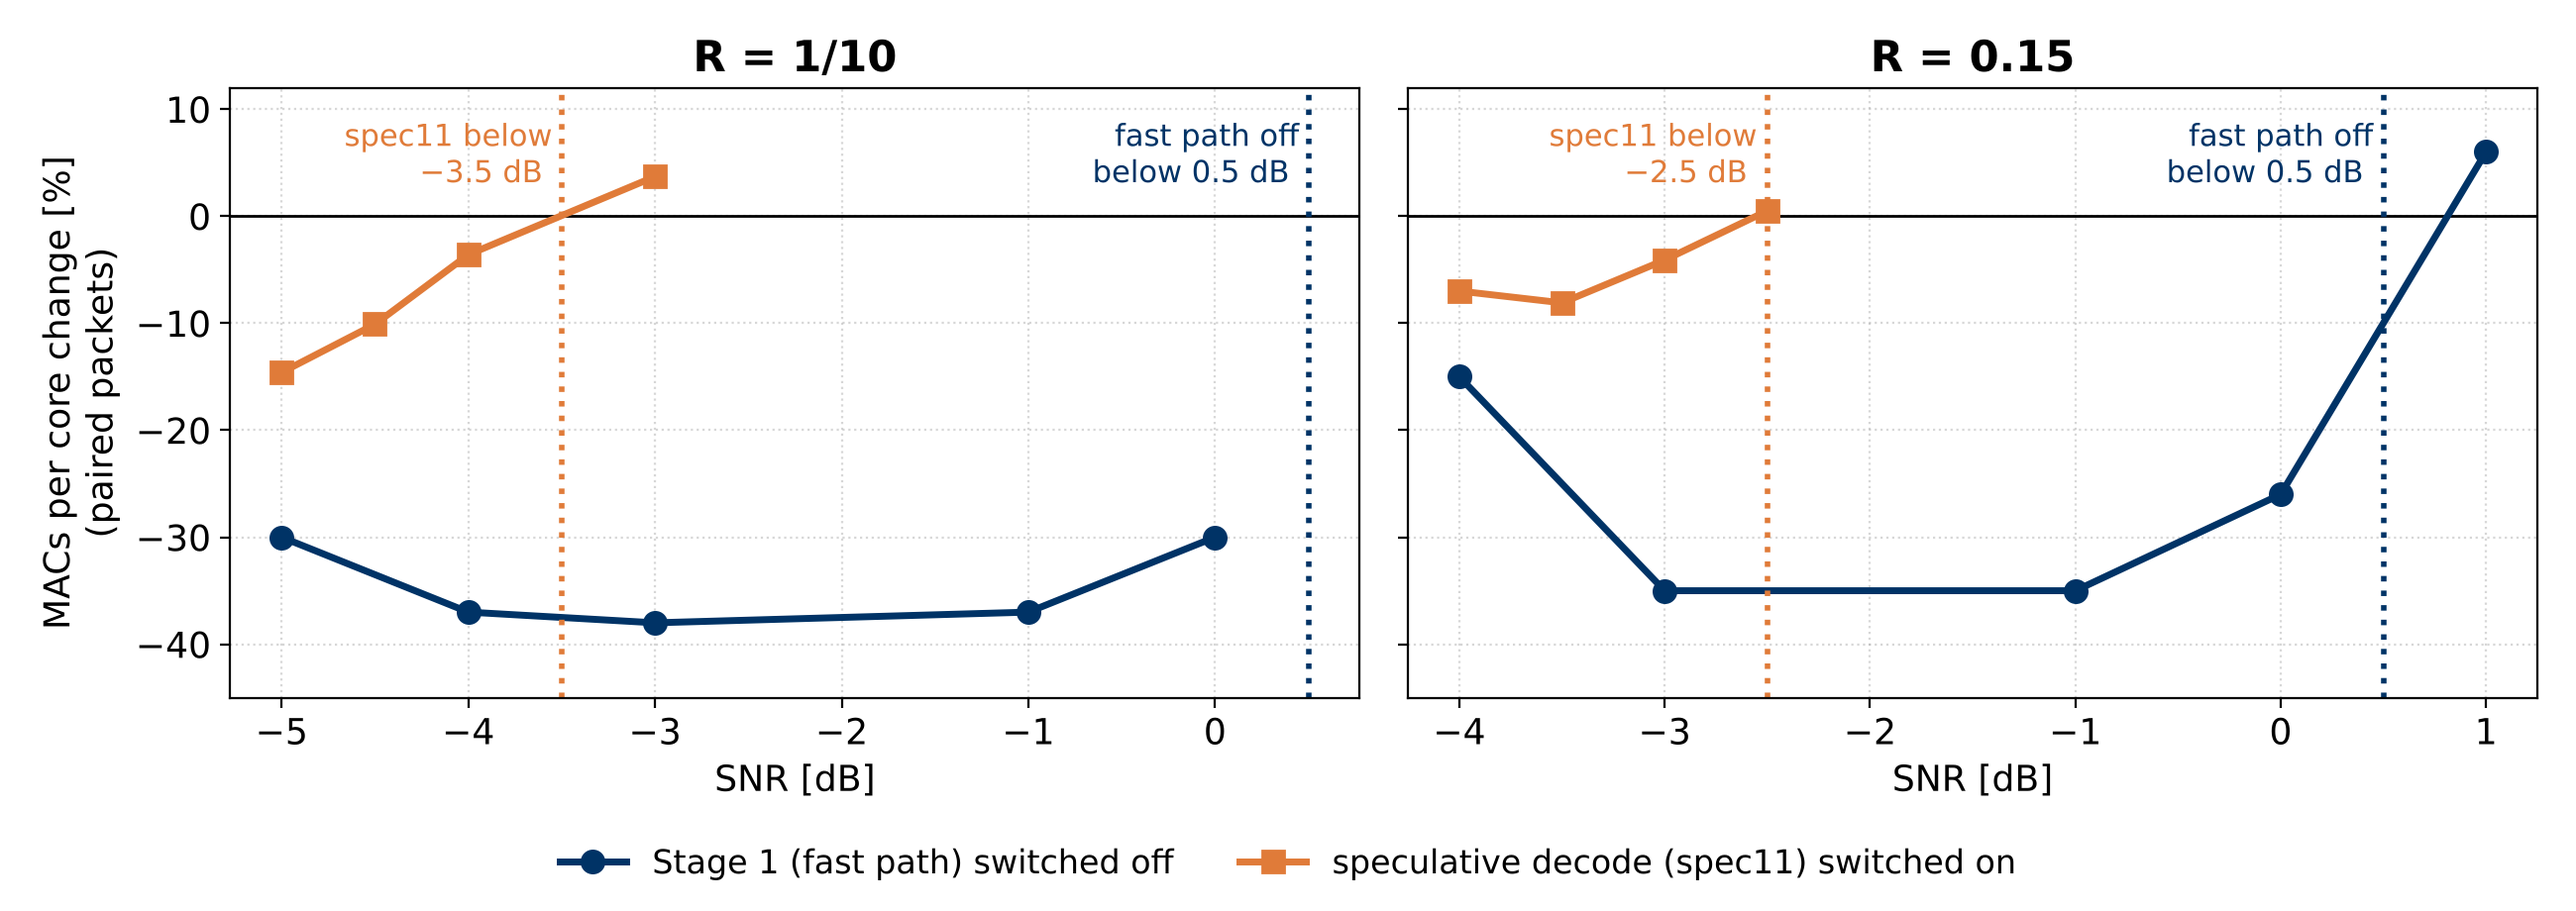
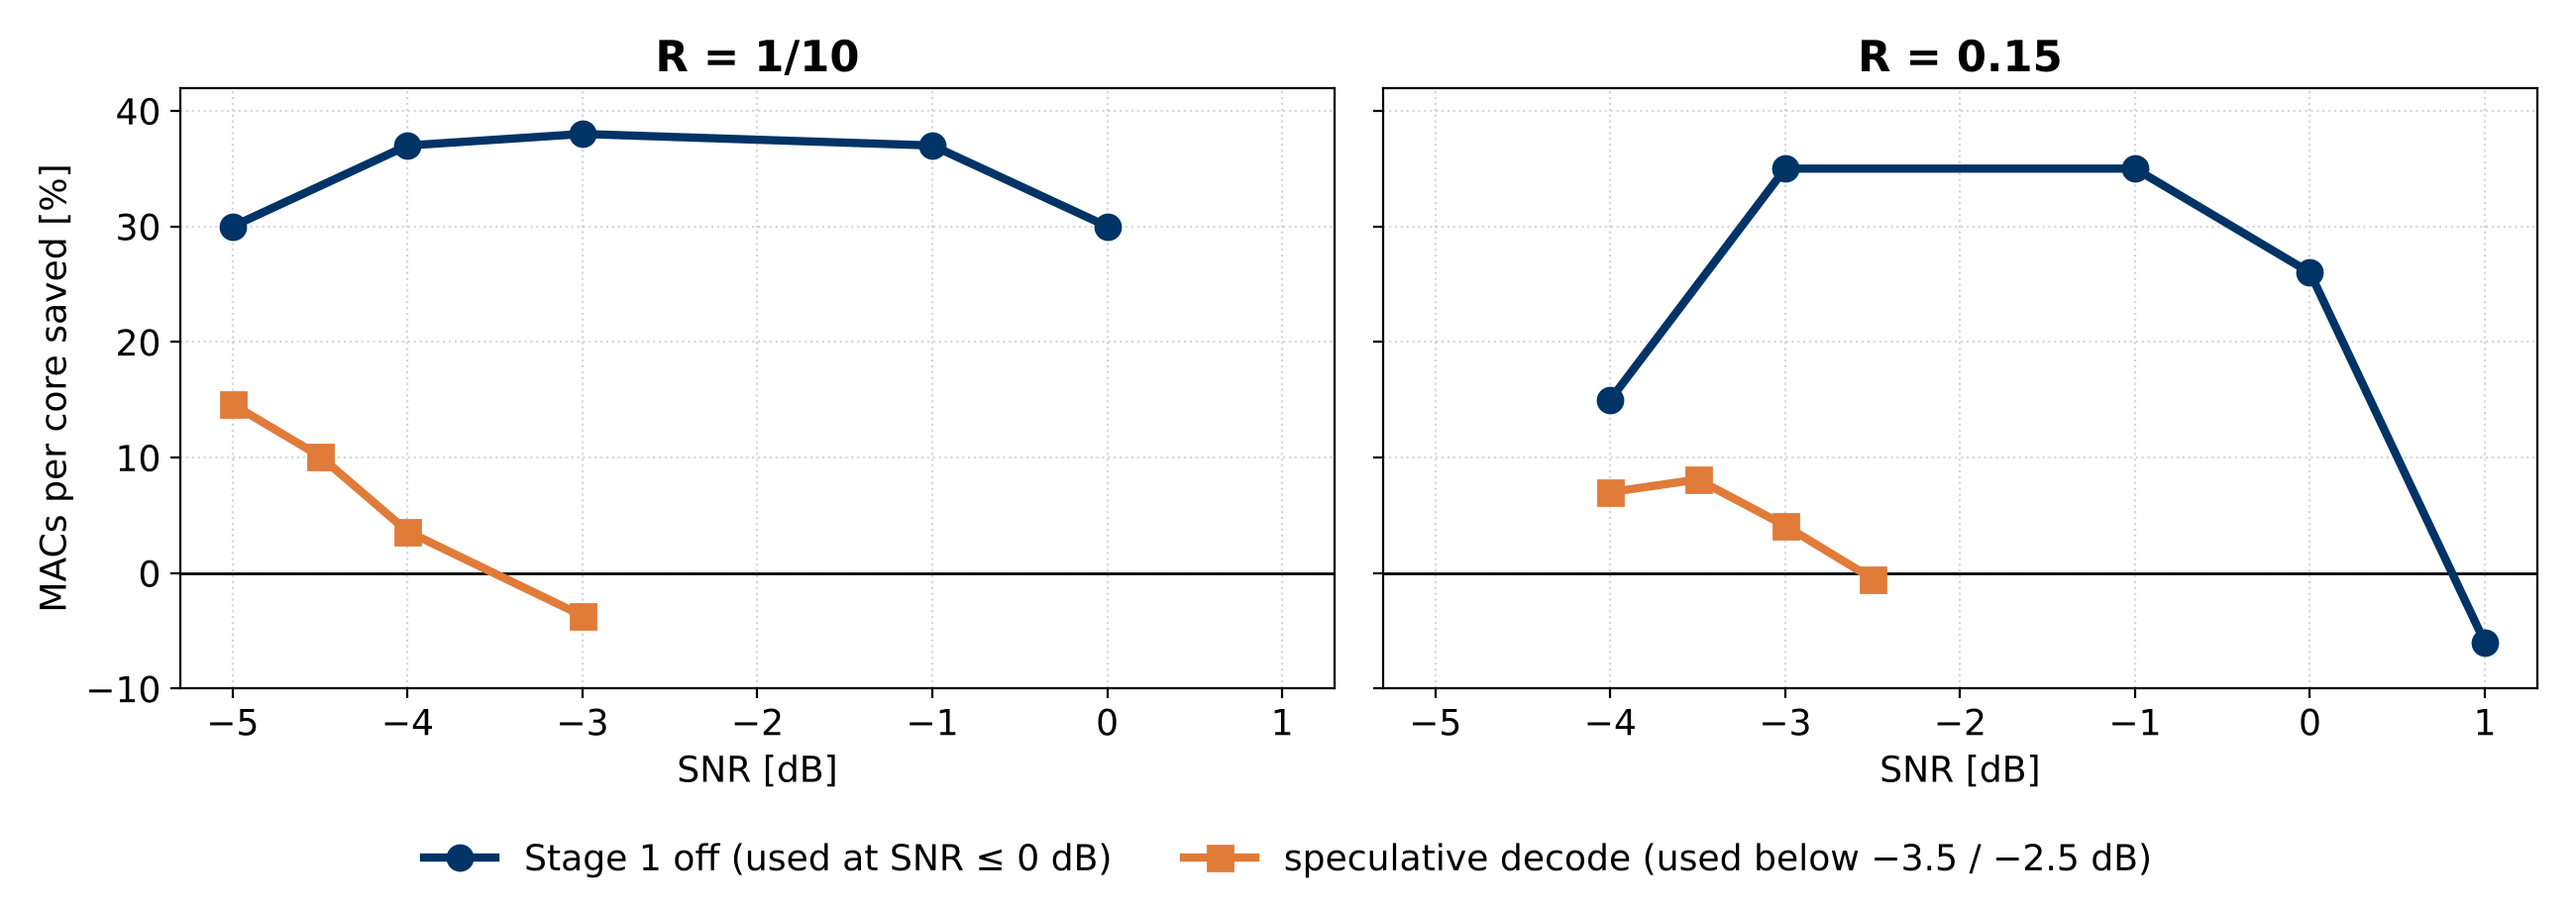
Slides: simpler testing-receiver and F5 plots; DVB-RCS2 and VDE-SAT algorithm figures and equations
Claude-Session: https://claude.ai/code/session_01Uut9iw5SnA6a3eeYDv3vkc

diff --git a/slides_eq/plot_testing_changes.py b/slides_eq/plot_testing_changes.py
@@ -31,86 +31,61 @@ def tr_gates():
     fig, axs = plt.subplots(1, 2, figsize=(13, 4.6), sharey=True)
     for ax, r in zip(axs, ("1/10", "0.15")):
         ax.axhline(0, color="k", lw=1)
-        ax.plot(*FP[r], "o-", color=NAVY, lw=2.5, ms=8, label="Stage 1 (fast path) switched off")
-        ax.plot(*SP[r], "s-", color=ORANGE, lw=2.5, ms=8, label="speculative decode (spec11) switched on")
-        ax.axvline(0.5, color=NAVY, ls=":", lw=2)
-        ax.axvline(GATE_S[r], color=ORANGE, ls=":", lw=2)
-        ax.text(0.45, 9, "fast path off\nbelow 0.5 dB ", ha="right", va="top", color=NAVY, fontsize=11)
-        ax.text(GATE_S[r] - 0.05, 9, f"spec11 below\n{GATE_S[r]:g} dB ".replace("-", "−"), ha="right", va="top",
-                color=ORANGE, fontsize=11)
+        ax.plot(FP[r][0], [-v for v in FP[r][1]], "o-", color=NAVY, lw=3, ms=9, label="Stage 1 off (used at SNR ≤ 0 dB)")
+        ax.plot(SP[r][0], [-v for v in SP[r][1]], "s-", color=ORANGE, lw=3, ms=9,
+                label="speculative decode (used below −3.5 / −2.5 dB)")
+        ax.set_xlim(-5.3, 1.3)
         ax.set_title(f"R = {r}", fontweight="bold")
         ax.set_xlabel("SNR [dB]")
-        ax.set_ylim(-45, 12)
+        ax.set_ylim(-10, 42)
         ax.grid(True, ls=":", alpha=0.5)
-    axs[0].set_ylabel("MACs per core change [%]\n(paired packets)")
+    axs[0].set_ylabel("MACs per core saved [%]")
     h, l = axs[0].get_legend_handles_labels()
-    fig.legend(h, l, loc="lower center", ncol=2, fontsize=12, frameon=False)
-    fig.tight_layout(rect=(0, 0.08, 1, 1))
+    fig.legend(h, l, loc="lower center", ncol=2, fontsize=13, frameon=False)
+    fig.tight_layout(rect=(0, 0.09, 1, 1))
     fig.savefig(os.path.join(HERE, "tr_gates.png"), dpi=200, facecolor="white")
 
 
 def f5_thr():
     R = {r["point"]: r for r in json.load(open(os.path.join(HERE, "data", "fz_f5_17b16ea.json")))}
-    fig, (a, b) = plt.subplots(1, 2, figsize=(13, 4.8))
+    fig, a = plt.subplots(figsize=(9, 4.8))
     ck = R["2/5 0.5 dB"]["groups"]["f"]["m"]["psn"]["ck"]
     q = [c["q"] for c in ck]
-    a.plot(q, [c["med_wrong"] for c in ck], "s-", color=RED, lw=2.5, ms=7, label="wrong decodes (median)")
-    a.plot(q, [c["med_right"] for c in ck], "o-", color=NAVY, lw=2.5, ms=7, label="right decodes (median)")
-    a.plot(q, [c["th"][0]["t"] for c in ck], "--", color=ORANGE, lw=2.5, label="threshold t: 0 right lost")
-    a.set_xlabel("share q of the frozen bits seen")
+    a.plot(q, [c["med_wrong"] for c in ck], "s-", color=RED, lw=3, ms=8, label="decodes at a wrong hypothesis (median ψ)")
+    a.plot(q, [c["med_right"] for c in ck], "o-", color=NAVY, lw=3, ms=8, label="decodes at the right hypothesis (median ψ)")
+    c7 = [c for c in ck if abs(c["q"] - 0.7) < 1e-9][0]
+    a.plot([0.7], [c7["th"][0]["t"]], "*", color=ORANGE, ms=22, label="chosen: q = 0.7, t = 0.774 (run.py FZS_T)")
+    a.axvline(0.7, color=ORANGE, ls=":", lw=2)
+    a.set_xlabel("share q of the frozen bits seen when ψ is checked")
     a.set_ylabel("ψ: mean frozen-bit penalty")
-    a.set_title("R = 2/5, 0.5 dB: ψ separates", fontweight="bold")
+    a.set_title("R = 2/5, 0.5 dB (decode dumps)", fontweight="bold")
     a.grid(True, ls=":", alpha=0.5)
-    a.legend(fontsize=11)
-    for pt, col, mk in (("2/5 0.5 dB", NAVY, "o"), ("1/2 2 dB", GREEN, "^"), ("0.15 -4 dB", GREY, "s"), ("1/10 -5 dB", ORANGE, "v")):
-        c = R[pt]["groups"]["f"]["m"]["psn"]["ck"]
-        lab = pt.replace("-", "−")
-        b.plot([x["q"] for x in c], [100 * x["th"][0]["save_core"] for x in c], marker=mk, color=col, lw=2.3, ms=7,
-               label=f"R = {lab}")
-    b.axvline(0.7, color="k", ls=":", lw=1.5)
-    b.text(0.71, 9.5, "chosen q = 0.7\n(R = 2/5, 1/2)", fontsize=11, va="bottom")
-    b.set_xlabel("share q of the frozen bits seen")
-    b.set_ylabel("MACs per core saved [%]")
-    b.set_title("Saving at the 0-loss threshold", fontweight="bold")
-    b.set_ylim(bottom=0)
-    b.grid(True, ls=":", alpha=0.5)
-    b.legend(fontsize=11, loc="upper left")
+    a.legend(fontsize=12, loc="lower left")
     fig.tight_layout()
     fig.savefig(os.path.join(HERE, "f5_thr.png"), dpi=200, facecolor="white")
 
 
 def f5_save():
     D = json.load(open(os.path.join(HERE, "data", "f5_paired_17b16ea.json")))
-    fig, axs = plt.subplots(1, 2, figsize=(13, 4.6))
+    fig, axs = plt.subplots(1, 2, figsize=(13, 4.6), sharey=True)
     for ax, r in zip(axs, ("2/5", "1/2")):
         pts = sorted((float(s), v) for s, v in D[r].items())
-        x = [s for s, _ in pts]
-        ax.plot(x, [v["base"] / 1e6 for _, v in pts], "--", color=GREY, lw=2, label="without early stop")
-        ax.plot(x, [v["fzs"] / 1e6 for _, v in pts], "-", color=NAVY, lw=2.8, label="with F5 early stop")
-        for s, v in pts:
-            pr = v["paired"]
-            ax.plot(s, v["base"] / 1e6, "o", color=GREY, ms=8, mfc=GREY if pr else "white")
-            ax.plot(s, v["fzs"] / 1e6, "o", color=NAVY, ms=8, mfc=NAVY if pr else "white")
-            ch = 100 * (v["fzs"] / v["base"] - 1)
-            if abs(ch) >= 1:
-                ax.annotate(f"{ch:+.0f} %".replace("-", "−"), (s, v["base"] / 1e6), textcoords="offset points",
-                            xytext=(8, 6), fontsize=12, color=NAVY, fontweight="bold")
-        ax.set_yscale("log")
-        ax.minorticks_off()
-        t = [0.05, 0.1, 0.2, 0.5, 1, 2]
-        ax.set_yticks(t)
-        ax.set_yticklabels([f"{v:g}" for v in t])
-        ax.set_ylim(0.05, 2.5)
-        ax.set_xlim(min(x) - 0.15, max(x) + 0.25)
+        x = list(range(len(pts)))
+        y = [100 * (1 - v["fzs"] / v["base"]) for _, v in pts]
+        for i, ((s, v), yy) in enumerate(zip(pts, y)):
+            ax.bar(i, yy, color=NAVY if v["paired"] else "white", edgecolor=NAVY, lw=2, hatch=None if v["paired"] else "//")
+            ax.text(i, yy + 0.6, f"{yy:.0f} %", ha="center", fontsize=13, color=NAVY, fontweight="bold")
+        ax.set_xticks(x)
+        ax.set_xticklabels([f"{s:g}" for s, _ in pts])
         ax.set_title(f"R = {r}", fontweight="bold")
         ax.set_xlabel("SNR [dB]")
-        ax.grid(True, ls=":", alpha=0.5)
-    axs[0].set_ylabel("MACs per core [M]")
-    h = [plt.Line2D([], [], color=GREY, ls="--", lw=2), plt.Line2D([], [], color=NAVY, lw=2.8),
-         plt.Line2D([], [], color="k", marker="o", ls="none", ms=8), plt.Line2D([], [], color="k", marker="o", ls="none", ms=8, mfc="white")]
-    fig.legend(h, ["without early stop", "with F5 early stop", "same packets (paired)", "different packets"],
-               loc="lower center", ncol=4, fontsize=12, frameon=False)
-    fig.tight_layout(rect=(0, 0.08, 1, 1))
+        ax.set_ylim(0, 25)
+        ax.grid(True, axis="y", ls=":", alpha=0.5)
+    axs[0].set_ylabel("MACs per core saved [%]")
+    h = [plt.Rectangle((0, 0), 1, 1, color=NAVY), plt.Rectangle((0, 0), 1, 1, fc="white", ec=NAVY, hatch="//")]
+    fig.legend(h, ["same packets with and without F5", "different packets"], loc="lower center", ncol=2, fontsize=13,
+               frameon=False)
+    fig.tight_layout(rect=(0, 0.09, 1, 1))
     fig.savefig(os.path.join(HERE, "f5_save.png"), dpi=200, facecolor="white")
 
 

diff --git a/slides_eq/plot_competitor_algos.py b/slides_eq/plot_competitor_algos.py
@@ -1,0 +1,72 @@
+"""Competitor algorithm slides -> slides_eq/rcs_alg.png, vde_alg.png
+
+    python slides_eq/plot_competitor_algos.py
+
+Layouts from est4/common.py (data/layouts_est4.json: known-symbol burst positions of rcs13 and vde27). The lower panel
+is the noiseless known-symbol pattern |sum_k exp(-j 2 pi nu n_k)| / Nk (true CFO 0): where the estimator's spectrum
+X(nu) peaks, including its alias lobes. Deterministic from the layout, no simulation.
+"""
+import json
+import os
+
+import numpy as np
+import matplotlib
+
+matplotlib.use("Agg")
+import matplotlib.pyplot as plt
+
+HERE = os.path.dirname(os.path.abspath(__file__))
+L = json.load(open(os.path.join(HERE, "data", "layouts_est4.json")))
+NAVY, ORANGE, GREY, RED = "#003366", "#E07B39", "#999999", "#c8423b"
+plt.rcParams.update({"font.size": 13, "font.family": "DejaVu Sans"})
+NU = np.linspace(-0.08, 0.08, 4001)
+
+
+def pattern(idx):
+    idx = np.asarray(idx, float)
+    return np.abs(np.exp(-2j * np.pi * NU[:, None] * idx[None]).sum(1)) / len(idx)
+
+
+def strip(ax, lay, title):
+    K, k = lay["K"], np.asarray(lay["known_idx"])
+    ax.add_patch(plt.Rectangle((0, 0), K, 1, color="#e6ecf3"))
+    for n in k:
+        ax.add_patch(plt.Rectangle((n, 0), 1.6, 1, color=ORANGE))
+    ax.set_xlim(0, K)
+    ax.set_ylim(0, 1)
+    ax.set_yticks([])
+    ax.set_xlabel("symbol index in the burst")
+    ax.set_title(title, fontsize=13)
+
+
+def spectrum(ax, curves, win=None):
+    if win:
+        ax.axvspan(-win, win, color="#d8e4f0", label="step 2 search window: f_c ± 1/54")
+    for y, lab, col, lw in curves:
+        ax.plot(NU, y, color=col, lw=lw, label=lab)
+    ax.set_xlim(NU[0], NU[-1])
+    ax.set_ylim(0, 1.5)
+    ax.set_xlabel("ν − f  [cycles/symbol]")
+    ax.set_ylabel("|X(ν)| (noiseless, normalised)")
+    ax.grid(True, ls=":", alpha=0.5)
+    ax.legend(fontsize=11, loc="upper right")
+
+
+def fig(name, lay, title, curves, win=None, marks=()):
+    f = plt.figure(figsize=(9.5, 6.2))
+    a = f.add_axes([0.09, 0.80, 0.88, 0.10])
+    b = f.add_axes([0.09, 0.10, 0.88, 0.56])
+    strip(a, lay, title)
+    spectrum(b, curves, win)
+    for x, t in marks:
+        b.text(x, 0.66, t, ha="center", fontsize=12, color=RED)
+    f.savefig(os.path.join(HERE, name), dpi=200, facecolor="white")
+
+
+r, v = L["rcs13"], L["vde27"]
+fig("rcs_alg.png", r, "known symbols (orange): 32 + 53 single pilots every 20 + 31 = 116",
+    [(pattern(r["known_idx"]), "all 116 known symbols", NAVY, 2.2)], marks=((-0.05, "alias\n−1/20"), (0.05, "alias\n+1/20")))
+fig("vde_alg.png", v, "known symbols (orange): 27-symbol syncword + 39 single pilots every 27 = 66",
+    [(pattern(v["known_idx"][:27]), "step 1: syncword only (27): wide, no aliases", ORANGE, 2.2),
+     (pattern(v["known_idx"]), "step 2: all 66 known", NAVY, 2.2)], win=1 / 54,
+    marks=((-1 / 27, "alias\n−1/27"), (1 / 27, "alias\n+1/27")))

diff --git a/slides_eq/render_eq.py b/slides_eq/render_eq.py
@@ -127,6 +127,12 @@ EQ.update({
     "ml3": r"$Z[k]=\sum_{n=0}^{L_0-1} z_n\,e^{-j2\pi kn/512},\qquad f_0=\dfrac{1}{512}\arg\max_{k}\,|Z[k]|^2$",
     "ml4": r"$f_{t+1}=f_t-\dfrac{\Lambda^{\prime}(f_t)}{\Lambda^{\prime\prime}(f_t)},\qquad t=0,1$",
     "ml5": r"$\mathrm{CRB}(f)=\dfrac{3}{2\pi^2\,\mathrm{SNR}\,L_0\,(L_0^2-1)}$",
+    # competitors (est4/estimators.py: rb, vde)
+    "rcs1": r"$z_k=r_{n_k}\,p_k^{\,*},\qquad k=1,\ldots,116\quad(n_k:\ \mathrm{burst\ position\ of\ known\ symbol}\ k)$",
+    "rcs2": r"$X(\nu)=\left|\sum_{k} z_k\,e^{-j2\pi\nu n_k}\right|,\qquad \hat f=\arg\max_{|\nu|\leq 0.03} X(\nu)$",
+    "rcs3": r"$\hat\theta=\arg\sum_{k} z_k\,e^{-j2\pi\hat f n_k}$",
+    "vde1": r"$f_c=\arg\max_{f}\ \left|\sum_{n=0}^{26} z_n\,e^{-j2\pi fn}\right|^2$",
+    "vde2": r"$\hat f=\arg\max_{|\nu-f_c|\,\leq\,1/54}\ X(\nu),\qquad X(\nu)=\left|\sum_{k=1}^{66} z_k\,e^{-j2\pi\nu n_k}\right|$",
     # F5 frozen-bit early stop
     "f5a": r"$\psi_\ell=\dfrac{1}{n_F}\sum_{i\,\in\,\mathcal{F},\ i\ \mathrm{decided}}\Delta M_\ell(i)$",
     "f5b": r"$\mathrm{stop\ the\ decode\ if}\ \ \min_{\ell\ \mathrm{alive}}\ \psi_\ell>t,\quad \mathrm{checked\ once\ at}\ n_F=\lceil qF\rceil$",
